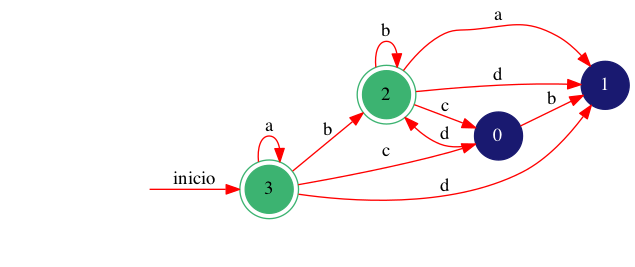
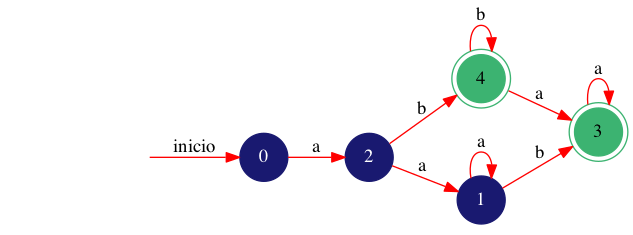
quitar estados trampa

Changed region(s): [[0.2401, 0.0298, 1.0, 0.9532], [0.8705, 0.1191, 0.9005, 0.1787], [0.8104, 0.7149, 0.8404, 0.7745]]

diff --git a/src/thomson/AFDConstructor.java b/src/thomson/AFDConstructor.java
@@ -434,44 +434,63 @@ public class AFDConstructor {
         this.afdDirecto=afd_result;
         
     }
-    
-    public Automata quitarEstadosTrampa(Automata afd_result){
+    /**
+     * Método para quitar los estados de trampa de un autómata
+     * @param afd
+     * @return AFD con menos estados 
+     */
+    public Automata quitarEstadosTrampa(Automata afd){
         ArrayList<Estado> estadoAQuitar = new ArrayList();
-        for (int i = 0;i<afd_result.getEstados().size();i++){
-            int verificarCantidadTransiciones = afd_result.getEstados().get(i).getTransiciones().size();
+        /* 1. primero se calcula los estados que son de trampa
+        * Se considera de trampa los estados que tienen transiciones
+        * con todas las letras del alfabeto hacia si mismos
+        */
+        for (int i = 0;i<afd.getEstados().size();i++){
+            int verificarCantidadTransiciones = afd.getEstados().get(i).getTransiciones().size();
             int contadorTransiciones=0;
-            for (Transicion t : (ArrayList<Transicion>)afd_result.getEstados().get(i).getTransiciones()){
-                if (afd_result.getEstados().get(i)==t.getFin()){
+            for (Transicion t : (ArrayList<Transicion>)afd.getEstados().get(i).getTransiciones()){
+                if (afd.getEstados().get(i)==t.getFin()){
                     contadorTransiciones++;
                 }
                 
             }
             if (verificarCantidadTransiciones==contadorTransiciones&&contadorTransiciones!=0){
                 
-              estadoAQuitar.add(afd_result.getEstados().get(i));
+              estadoAQuitar.add(afd.getEstados().get(i));
             }
             
         }
-        
+        /*2. una vez ya sabido que estados son los de trampa
+        * se quitan las transiciones que van hacia ese estado
+        * y al final se elimina el estado del autómata
+        */
         for (int i = 0;i<estadoAQuitar.size();i++){
-              for (int j = 0;j<afd_result.getEstados().size();j++){
-                    ArrayList<Transicion> arrayT = afd_result.getEstados().get(j).getTransiciones();
+              for (int j = 0;j<afd.getEstados().size();j++){
+                    ArrayList<Transicion> arrayT = afd.getEstados().get(j).getTransiciones();
                     int cont =0;
+                    System.out.println(arrayT);
                     while(arrayT.size()>cont){
                         Transicion t = arrayT.get(cont);
+                        //se verifican todas las transiciones que de todos los estados
+                        //que van hacia el estado a eliminar
                         if (t.getFin()==estadoAQuitar.get(i)){
-                            afd_result.getEstados().get(i).getTransiciones().remove(t);
+                            afd.getEstados().get(j).getTransiciones().remove(t);
+                            cont--;
                         }
                         cont++;
 
                     }
                 }
-                
-                afd_result.getEstados().remove(estadoAQuitar.get(i));
-                System.out.println(afd_result);
+                //eliminar el estao al final
+                afd.getEstados().remove(estadoAQuitar.get(i));
+        }
+        //3. arreglar la numeración cuando se quita un estado
+        for (int i = 0;i<afd.getEstados().size();i++){
+            afd.getEstados().get(i).setId(i);
         }
         
-        return afd_result;
+        
+        return afd;
     }
     
     

diff --git a/src/thomson/AutomataMain.java b/src/thomson/AutomataMain.java
@@ -86,8 +86,7 @@ public class AutomataMain {
         //obtener el AFD resultante
         Automata afd_result = AFD.getAfd();
         //afn_result.generarDOT("Test");
-        System.out.println("");
-       
+      
      
         //Simular el AFD
         double afdSimulateStart = System.currentTimeMillis();
@@ -148,7 +147,13 @@ public class AutomataMain {
         
          crearArchivos(afd_min_sub,(minTimeStop-minTimeStart),(minSimStop-minSimStart),"AFD Min Subconjuntos");
         
+        System.out.println("");
+        Automata afd_trampa = AFD.quitarEstadosTrampa(afd_result);
+        crearArchivos(afd_trampa,0,0,"AFD SubConjuntos Sin Estados Trampa");
         
+        System.out.println("");
+        Automata afd_dirtrampa = AFD.quitarEstadosTrampa(afd_directo);
+        crearArchivos(afd_dirtrampa,0,0,"AFD Directo Sin Estados Trampa");
       
     }
     /*
